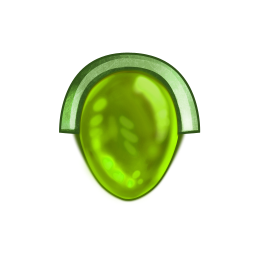
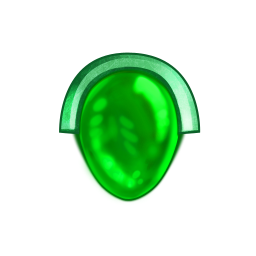
Added solution to display items with no quality property

Changed region(s): [[0.2188, 0.1875, 0.7812, 0.8125]]

diff --git a/src/Redux/slices/itemsSlice.js b/src/Redux/slices/itemsSlice.js
@@ -79,13 +79,28 @@ export const selectItemById = (itemId) => (state) => {
 
 export const selectItemsByQuality = (itemQuality) => (state) => {
     const filteredItems = []
+    const newItems = {...state.item.items}
+    for (let item in newItems) {
+
+        // for items that do not have quality property and skip items with undefined name
+        if (!state.item.items[item].hasOwnProperty('qual') && state.item.items[item].dname) {
+            newItems[item] = {...state.item.items[item]}
+            newItems[item].qual = 'unknown'
+        }
+        if (newItems[item].qual === itemQuality) {
+            filteredItems.push(newItems[item])
+        }
+    }
+    return filteredItems
+}
+// works, but try to find solution with less than x^2 complexity
+export const selectItemsWithoutQuality = () => (state) => {
+    const filteredItems = []
     for (let item in state.item.items) {
-        if (state.item.items[item].qual === itemQuality) {
+        if (!state.item.items[item].hasOwnProperty('qual')) {
             filteredItems.push(state.item.items[item])
         }
     }
-    // console.log(filteredItems)
-    return filteredItems
 }
 
 

diff --git a/src/Components/Main/Content/Items/qualityBlocks/QualityBlocks.module.scss b/src/Components/Main/Content/Items/qualityBlocks/QualityBlocks.module.scss
@@ -16,6 +16,7 @@
 
 .rarityImg {
     width: 50px;
+    filter:brightness(0.7)
 }
 // CLASSES FOR RARITY
 .rare {
@@ -35,7 +36,7 @@
     }  
 }
 .common {
-    border: 3px solid rgba(136, 255, 52, 0.4);
+    border: 3px solid rgba(107, 255, 1, 0.4);
     border-radius: 5px;
     p, .elementTitle {
         filter:brightness(1.5);
@@ -72,6 +73,15 @@
     p, .elementTitle {
         filter:brightness(1.5);
         color: rgb(185, 178, 176)
+    }  
+}
+
+.unknown {
+    border: 3px solid rgba(255, 238, 0, 0.4);
+    border-radius: 5px;
+    p, .elementTitle {
+        filter:brightness(1.5);
+        color: rgb(255, 230, 1)
     }  
 }
 // -------------------

diff --git a/src/utils/constants.js b/src/utils/constants.js
@@ -37,5 +37,5 @@ export const dotaRoles = [
 export const itemQualities = [
     "rare", "component",
     "artifact", "secret_shop",
-    "epic", "common" , "consumable"
+    "epic", "common" , "consumable", 'unknown'
 ]
